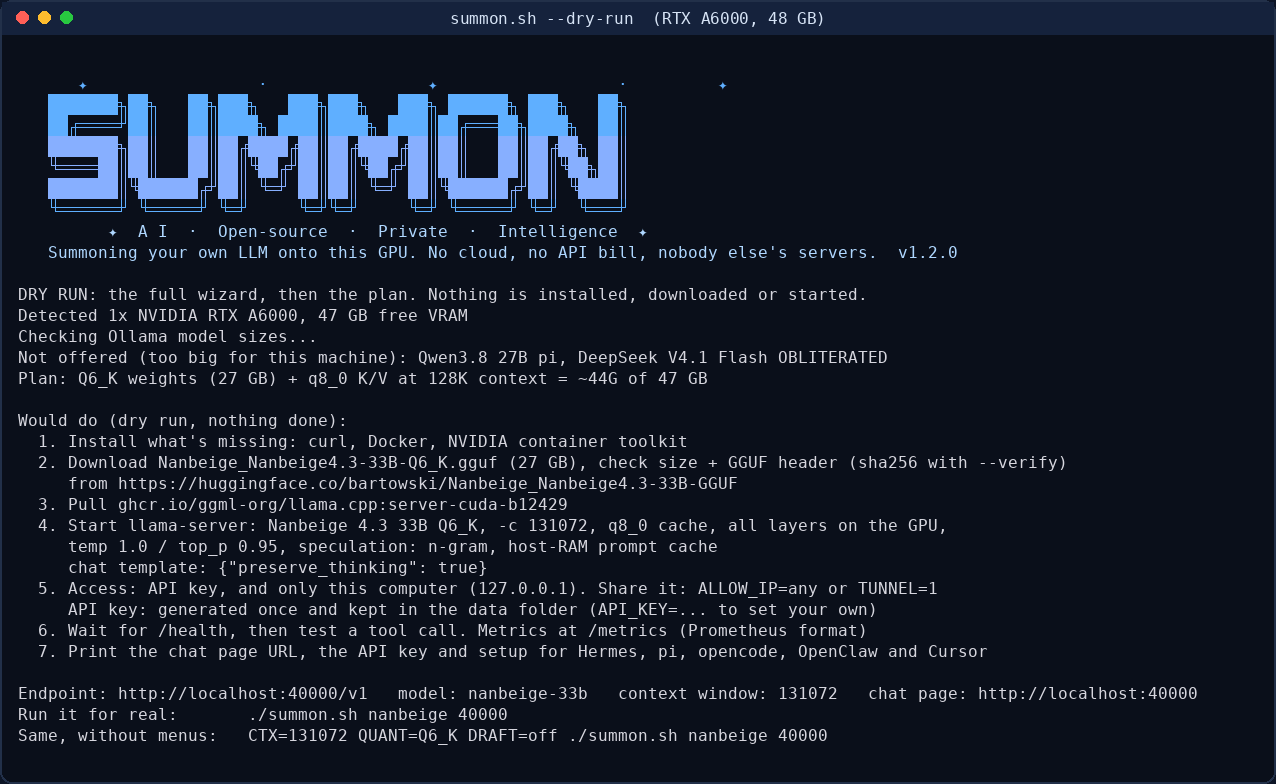
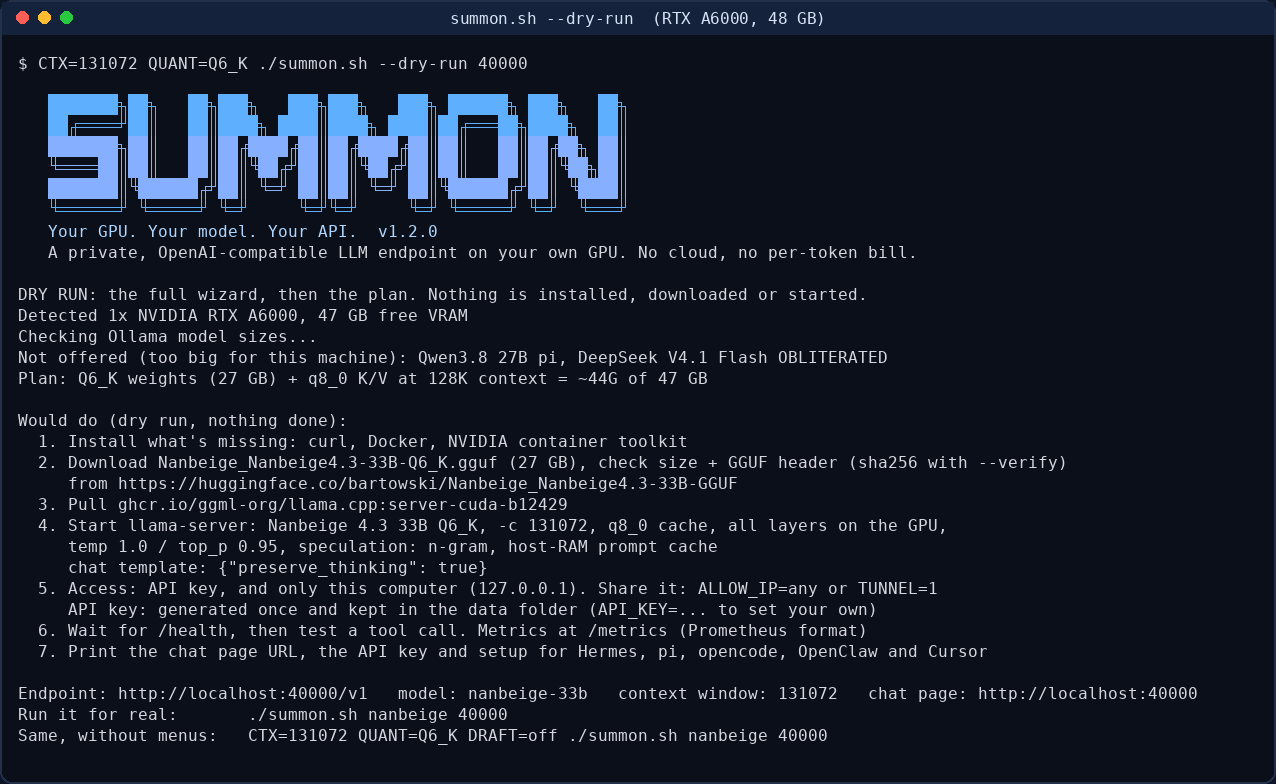
Just-go mode, status, Ollama survives reboots, rent table, plainer wording
- --auto / GO=1: no questions; the recommended model, context and weights, port 20001
- ./summon.sh status: engine, model, context, port, health, last speed, HTTPS URL, GPU memory
- Ollama runs as the summon-ollama systemd service (starts on boot, re-applies the IP lock); screen fallback without systemd
- Wording: tagline "Your GPU. Your model. Your API.", banner without stars or "summoning", "Which model do you want to run?",
  site sections Install / Models / After install; screenshots and hero regenerated (same slate/blue theme)
- "What should I rent?" table (site + README), sizes checked against dry runs
- install.sh passes GO, API_KEY, TUNNEL, PUBLIC_HOST, DRAFT, SUMMON_RAM through sudo (TUNNEL/API_KEY were dropped before)

diff --git a/docs/index.html b/docs/index.html
@@ -3,9 +3,9 @@
 <head>
 <meta charset="utf-8">
 <meta name="viewport" content="width=device-width, initial-scale=1">
-<title>Summon - AI, Open-source, Private Intelligence</title>
+<title>Summon - Your GPU. Your model. Your API.</title>
 <meta name="description" content="One command turns your NVIDIA GPU into a private, OpenAI-compatible AI endpoint. Open models, no cloud, no API bill.">
-<meta property="og:title" content="Summon - AI, Open-source, Private Intelligence">
+<meta property="og:title" content="Summon - Your GPU. Your model. Your API.">
 <meta property="og:description" content="One command turns your NVIDIA GPU into a private AI endpoint: picks the model, weights and context that fit your card.">
 <meta property="og:image" content="https://codyvolckmar.github.io/summon/img/summon-hero.png">
 <meta name="twitter:card" content="summary_large_image">
@@ -57,7 +57,7 @@
 
 <header>
   <h1 class="logo">SUMMON</h1>
-  <p class="tag">AI · Open-source · Private · Intelligence</p>
+  <p class="tag">Your GPU. Your model. Your API.</p>
   <p class="note" style="margin:6px 0 0">v1.2.0 · <a href="https://github.com/codyvolckmar/summon/blob/main/CHANGELOG.md">what's new: API keys, HTTPS tunnel, uncensored models</a></p>
   <p class="lede">One command turns your NVIDIA GPU into a <b>private AI</b> with an OpenAI-compatible API.
     Summon picks the model, weights and context that fit <b>your</b> card, verifies the download, keeps the port private
@@ -65,7 +65,7 @@
 </header>
 
 <section id="install">
-  <h2><span>01</span> Summon it</h2>
+  <h2><span>01</span> Install</h2>
   <div class="cmd"><span class="os">Linux · Ubuntu / Debian · rented GPU pods</span><span id="c1">curl -fsSL https://codyvolckmar.github.io/summon/install.sh | bash</span><button data-copy="c1">Copy</button></div>
   <div class="cmd"><span class="os">Windows 10 / 11 · PowerShell (runs in WSL 2)</span><span id="c2">irm https://raw.githubusercontent.com/codyvolckmar/summon/main/docs/install.ps1 | iex</span><button data-copy="c2">Copy</button></div>
   <div class="cmd"><span class="os">Just looking? Dry run: the full wizard, nothing installed</span><span id="c3">curl -fsSL https://codyvolckmar.github.io/summon/install.sh | bash -s -- --dry-run</span><button data-copy="c3">Copy</button></div>
@@ -88,7 +88,7 @@
 </section>
 
 <section id="models">
-  <h2><span>03</span> What you can summon</h2>
+  <h2><span>03</span> Models</h2>
   <table>
     <tr><th>Model</th><th>Engine</th><th>Good at</th><th>24 GB (RTX 3090 / 4090)</th><th>48 GB (RTX A6000)</th></tr>
     <tr><td><b>Nanbeige 4.3 33B</b></td><td>llama.cpp</td><td>Agentic coding. Top of the ≤40B class on Artificial Analysis (index 20).</td><td>up to 48K</td><td>128K (Q6_K) · 256K (Q3_K_M)</td></tr>
@@ -105,8 +105,23 @@
   <p class="note">All of them are in one menu, sized live to your card. Every model serves an OpenAI-compatible API: Summon prints the URL, key and client setup when it's done. One engine runs at a time; starting one stops the other.</p>
 </section>
 
+<section id="rent">
+  <h2><span>04</span> What should I rent?</h2>
+  <table>
+    <tr><th>GPU (VRAM)</th><th>Typical price</th><th>What Summon runs on it</th></tr>
+    <tr><td><b>RTX 3090 / 4090</b> (24 GB)</td><td>~$0.15–0.75/hr</td><td>Ornith 1.5 9B at 128K, 8-bit (pre-selected). ThinkingCap 27B or Qwen3.8 27B at 128K, 4-bit. Ornith 35B with experts in RAM. Good for trying it out and light agents.</td></tr>
+    <tr><td><b>RTX 5090</b> (32 GB)</td><td>~$0.40–1.00/hr</td><td>ThinkingCap 27B or Qwen3.8 27B at 128K, 6-bit.</td></tr>
+    <tr><td><b>L40S / L40 / RTX A6000</b> (48 GB)</td><td>~$0.80–1.10/hr (L40S)</td><td><b>Best value.</b> Nanbeige 33B at 128K, 6-bit (pre-selected). ThinkingCap, Qwen3.8 and Ornith 35B at 128K, 8-bit. Measured: ~42 tok/s with ThinkingCap on an L40.</td></tr>
+    <tr><td><b>H100</b> (80 GB)</td><td>~$2.20–2.90/hr</td><td>Every 27–35B model at 8-bit, Nanbeige 33B at 128K. Fastest per token.</td></tr>
+    <tr><td><b>RTX PRO 6000</b> (96 GB) + 130 GB RAM</td><td>~$0.60–2.10/hr</td><td>All of the above, plus DeepSeek V4.1 Flash 748B (experts in system RAM).</td></tr>
+    <tr><td><b>2× H100</b> (160 GB)</td><td>~$4.40–5.80/hr</td><td>DeepSeek V4.1 Flash 748B fully on the GPUs.</td></tr>
+  </table>
+  <p class="note">Start with a 48 GB card: it runs every 27–35B model at 128K with near-full precision. Prices are typical RunPod and Vast.ai rates (Sept–Nov 2026) and change daily; marketplace and spot instances are cheaper but less reliable.
+    Check any card before renting: <code>SUMMON_GPU="L40S:46068" ./summon.sh --dry-run</code>.</p>
+</section>
+
 <section id="shots">
-  <h2><span>04</span> See it first</h2>
+  <h2><span>05</span> See it first</h2>
   <p class="note">First, a real install on an NVIDIA L40. After that, real screens from <code>./summon.sh --dry-run</code>: the actual script and whiptail menus, nothing installed.</p>
   <div class="shots">
     <figure><a href="img/12-l40-thinkingcap-install.png"><img src="img/12-l40-thinkingcap-install.png" alt="Summon installing and serving ThinkingCap on an NVIDIA L40" loading="lazy"></a><figcaption>Real run on an NVIDIA L40 (48 GB): one line installs ThinkingCap 27B at Q8_0 with 128K context and passes the tool-call test.</figcaption></figure>
@@ -124,7 +139,7 @@
 </section>
 
 <section id="after">
-  <h2><span>05</span> After it's summoned</h2>
+  <h2><span>06</span> After install</h2>
   <ol class="steps">
     <li>Open the chat page it prints in your browser (paste the API key once), or copy the setup it prints for Hermes Agent, pi, opencode, OpenClaw or Cursor. See it again any time: <code>~/.summon/summon.sh --connect</code>.</li>
     <li>Cursor, phones, or a pod behind a proxy: rerun with <code>TUNNEL=1</code> for a free HTTPS URL (Cloudflare quick tunnel).</li>
@@ -135,7 +150,7 @@
 </section>
 
 <section id="needs">
-  <h2><span>06</span> What you need</h2>
+  <h2><span>07</span> What you need</h2>
   <div class="grid">
     <div class="card"><h3>GPU</h3><p>NVIDIA with 24 GB+ for the long-context models (RTX 3090 / 4090 / A6000 / 6000 Ada). 48 GB unlocks Nanbeige at 128–256K.</p></div>
     <div class="card"><h3>Linux</h3><p>Ubuntu or Debian (apt), NVIDIA driver installed, root or sudo. Summon installs Docker and the NVIDIA container toolkit if missing.</p></div>
@@ -147,7 +162,7 @@
 </section>
 
 <section id="contact">
-  <h2><span>07</span> Questions?</h2>
+  <h2><span>08</span> Questions?</h2>
   <div class="card">
     <h3>Cody Volckmar</h3>
     <p>Summon is a free, open-source side project, not a service. Questions, bugs and ideas: <a href="https://github.com/codyvolckmar/summon/issues">GitHub issues</a>.

diff --git a/tools/termshot.py b/tools/termshot.py
@@ -340,7 +340,7 @@ if __name__ == '__main__':
     # 1) A6000: model menu, port, context, weights, final plan
     env = dict(base, SUMMON_GPU='NVIDIA RTX A6000:49140')
     run(f'cd {root}; clear; echo "$ ./summon.sh --dry-run"; "{S}" --dry-run; sleep 30', env, [
-        ('until', r'Which AI', 15), ('shot', '01-model-menu-a6000.png', 'summon.sh --dry-run  (RTX A6000, 48 GB)'),
+        ('until', r'Which model', 15), ('shot', '01-model-menu-a6000.png', 'summon.sh --dry-run  (RTX A6000, 48 GB)'),
         ('key', ENTER), ('until', r'Trade precision for speed', 10), ('shot', '11-draft-question.png', 'summon.sh --dry-run  (RTX A6000, 48 GB)'),
         ('key', ENTER), ('until', r'Step 1/2', 10), ('shot', '03-context-menu.png', 'summon.sh --dry-run  (RTX A6000, 48 GB)'),
         ('key', ENTER), ('until', r'Step 2/2', 10), ('shot', '04-weights-menu.png', 'summon.sh --dry-run  (RTX A6000, 48 GB)'),
@@ -350,7 +350,7 @@ if __name__ == '__main__':
     # 2) RTX 3090: the model menu pre-selects Ornith 9B
     env = dict(base, SUMMON_GPU='NVIDIA GeForce RTX 3090:24576', SUMMON_RAM='65536')   # a 64 GB RAM box: Ornith 35B fits with experts in RAM
     run(f'cd {root}; clear; "{S}" --dry-run 40000; sleep 30', env, [
-        ('until', r'Which AI', 15), ('shot', '06-model-menu-3090.png', 'summon.sh --dry-run 40000  (RTX 3090, 24 GB)'),
+        ('until', r'Which model', 15), ('shot', '06-model-menu-3090.png', 'summon.sh --dry-run 40000  (RTX 3090, 24 GB)'),
         ('key', ENTER), ('until', r'Step 1/2', 10), ('key', ENTER), ('until', r'Step 2/2', 10),
         ('shot', '07-weights-menu-3090.png', 'summon.sh --dry-run 40000  (RTX 3090, 24 GB)'),
         ('key', ENTER), ('until', r'Same, without menus', 10), ('shot', '08-dry-run-plan-3090.png', 'summon.sh --dry-run 40000  (RTX 3090, 24 GB)'),
@@ -358,6 +358,6 @@ if __name__ == '__main__':
     # 3) Ollama model checklist
     env = dict(base, SUMMON_GPU='NVIDIA RTX A6000:49140')
     run(f'cd {root}; clear; "{S}" --dry-run ollama 40000; sleep 30', env, [
-        ('until', r'Which AI', 25), ('shot', '09-ollama-menu.png', 'summon.sh --dry-run ollama 40000  (RTX A6000, 48 GB)'),
+        ('until', r'Which model', 25), ('shot', '09-ollama-menu.png', 'summon.sh --dry-run ollama 40000  (RTX A6000, 48 GB)'),
         ('key', ENTER), ('until', r'Endpoint:', 15), ('shot', '10-ollama-plan.png', 'summon.sh --dry-run ollama 40000  (RTX A6000, 48 GB)'),
     ], out)

diff --git a/tools/hero.py b/tools/hero.py
@@ -32,7 +32,7 @@ for y in range(H):
     k = min(1, max(0, (y - 30) / 70))
     gd.line([0, y, W, y], fill=(int(232 - 156 * k), int(237 - 96 * k), int(245 + 10 * k)))
 img.paste(grad, (0, 0), mask)
-d.text((330, 54), 'AI · OPEN-SOURCE · PRIVATE · INTELLIGENCE', font=tag, fill=(88, 166, 255))
+d.text((330, 54), 'YOUR GPU. YOUR MODEL. YOUR API.', font=tag, fill=(88, 166, 255))
 d.text((330, 82), 'One command turns your NVIDIA GPU into a private, OpenAI-compatible AI.', font=cap, fill=(232, 237, 245))
 
 PW, y = 820, 150

diff --git a/README.md b/README.md
@@ -1,6 +1,6 @@
 # Summon
 
-**AI · Open-source · Private · Intelligence**  ·  v1.2.0 ([changelog](CHANGELOG.md))
+**Your GPU. Your model. Your API.**  ·  v1.2.0 ([changelog](CHANGELOG.md))
 
 One command turns your NVIDIA GPU into a private AI with an OpenAI-compatible API. Summon picks the model, weights and context that fit your card, verifies the download, keeps the port private and tests tool calling before it hands you the URL. No cloud, no API bill, nobody else's servers.
 
@@ -29,7 +29,7 @@ SUMMON_GPU="RTX 3090:24576" ./summon.sh --dry-run     # preview a card you don't
 
 Piping a script into a shell gives it root. Read [summon.sh](summon.sh) first; it's one commented file.
 
-## What you can summon
+## Models
 
 **New:** OBLITERATUS's abliterated models, up to the 748B DeepSeek V4.1 Flash, set up correctly on llama.cpp. See [OBLITERATUS.md](OBLITERATUS.md).
 
@@ -46,10 +46,25 @@ Piping a script into a shell gives it root. Read [summon.sh](summon.sh) first; i
 | **DeepSeek V4.1 Flash OBLITERATED**: uncensored 748B MoE (refusals reduced, not removed; MMLU 83.6%), 2.66-bit GGUF, 237 GB download. Needs a 96 GB card + ~130 GB free RAM, or ~160 GB of VRAM across cards | llama.cpp | not offered | not offered |
 | **Ollama models**: Qwen3.8 27B, Qwen3.6 35B-A3B, Gemma 4 31B, K2 Horizon, Muse Glimmer… | Ollama | Qwen3.8 27B at 64K | most at 128K, 8-bit |
 
+## What should I rent?
+
+| GPU (VRAM) | Typical price | What Summon runs on it |
+|---|---|---|
+| RTX 3090 / 4090 (24 GB) | ~$0.15–0.75/hr | Ornith 1.5 9B at 128K, 8-bit. ThinkingCap / Qwen3.8 27B at 128K, 4-bit. Ornith 35B with experts in RAM |
+| RTX 5090 (32 GB) | ~$0.40–1.00/hr | ThinkingCap / Qwen3.8 27B at 128K, 6-bit |
+| **L40S / L40 / RTX A6000 (48 GB)** | ~$0.80–1.10/hr (L40S) | **Best value.** Nanbeige 33B at 128K, 6-bit; ThinkingCap, Qwen3.8, Ornith 35B at 128K, 8-bit (~42 tok/s measured on an L40) |
+| H100 (80 GB) | ~$2.20–2.90/hr | Every 27–35B model at 8-bit, fastest per token |
+| RTX PRO 6000 (96 GB) + 130 GB RAM | ~$0.60–2.10/hr | Everything, including DeepSeek V4.1 Flash 748B (experts in RAM) |
+| 2× H100 (160 GB) | ~$4.40–5.80/hr | DeepSeek V4.1 Flash fully on the GPUs |
+
+Prices are typical RunPod and Vast.ai rates (Sept–Nov 2026) and change daily. Check any card first: `SUMMON_GPU="L40S:46068" ./summon.sh --dry-run`.
+
 ## Usage
 
 ```bash
 ./summon.sh [PORT]                          # the wizard: one menu with every model, sized to your card
+./summon.sh --auto [PORT]                   # just go: the recommended model, no questions (or GO=1)
+./summon.sh status                          # what's running, health, last speed, GPU memory
 ./summon.sh nanbeige|qwen38pi|ornith35b|ornith9b|thinkingcap|qwen38obl|ornith9bobl|feyospace|deepseek41obl [PORT]   # skip the menu
 ONLY=1,3 ./summon.sh [PORT]                 # pull several Ollama models at once (rows in list order)
 ./summon.sh --dry-run [PORT]                # plan only, installs nothing
@@ -68,6 +83,8 @@ When it's done, Summon prints:
 `./summon.sh --connect` prints it all again.
 
 **Access:** llama.cpp models need an **API key**, generated once and kept across reruns (`API_KEY=...` to set your own, `--new-key` to rotate). On your own PC the server only listens on `127.0.0.1`. On a rented pod the port is open and the key is the lock; `TUNNEL=1` adds a free HTTPS URL through a Cloudflare quick tunnel. Cursor needs that, because it calls models from its own servers. `ALLOW_IP=1.2.3.4` adds a firewall on top. Ollama has no API keys, so Ollama models keep the IP lock: firewalled to your SSH IP on rented pods, `127.0.0.1` on your own PC.
+
+**Reboots:** llama.cpp runs in Docker and comes back on its own. Ollama runs as the `summon-ollama` systemd service, so it starts on boot too and re-applies its IP lock (iptables rules don't survive a reboot). Machines without systemd, like many pod containers, fall back to a `screen` session: rerun Summon after a reboot there.
 
 ## How it decides
 

diff --git a/CHANGELOG.md b/CHANGELOG.md
@@ -1,5 +1,13 @@
 # Changelog
 
+## Unreleased
+
+- **Just go:** `./summon.sh --auto` (or `GO=1`) asks nothing: the recommended model, context and weights for the machine, port 20001.
+- **`./summon.sh status`:** engine, model, context, port, health, last decode speed, HTTPS URL and GPU memory in one screen.
+- **Ollama survives reboots:** it runs as the `summon-ollama` systemd service (starts on boot, re-applies the IP lock). No systemd (many pod containers): the old `screen` session, and Summon says so.
+- **Plainer wording:** tagline "Your GPU. Your model. Your API."; the banner drops the stars and the "summoning" line; menus ask "Which model do you want to run?". Screenshots and the hero image regenerated.
+- **"What should I rent?"** table on the site and in the README: typical GPU rental prices and what Summon runs on each card.
+
 ## v1.2.0 (2026-11-20)
 
 - Docs site, terminal UI (banner + whiptail theme) and all screenshots restyled: enterprise slate/blue theme (replaces purple).
